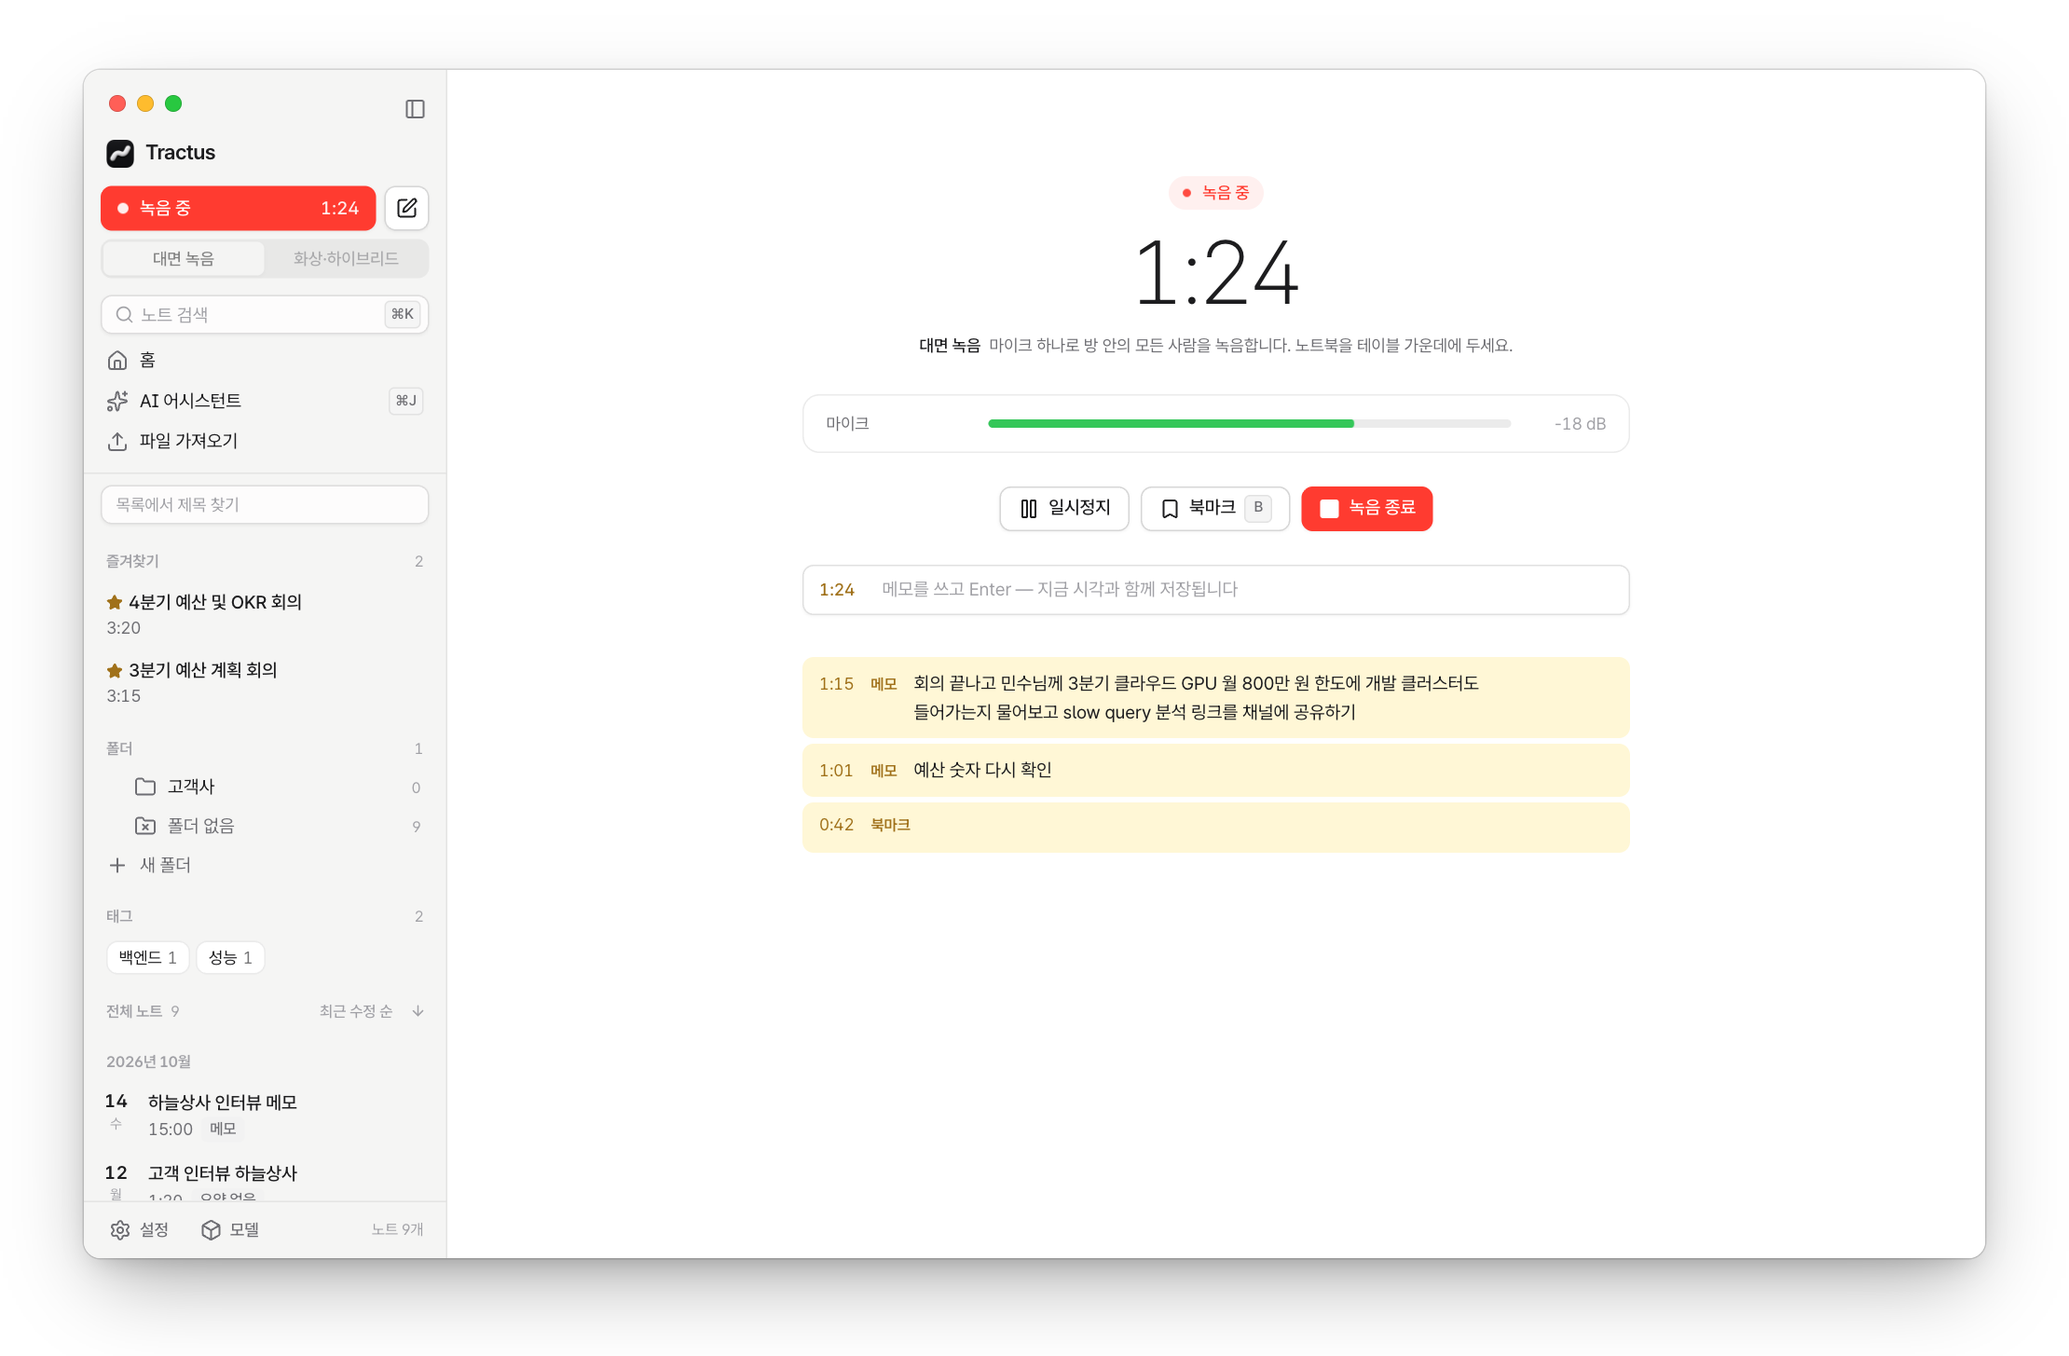
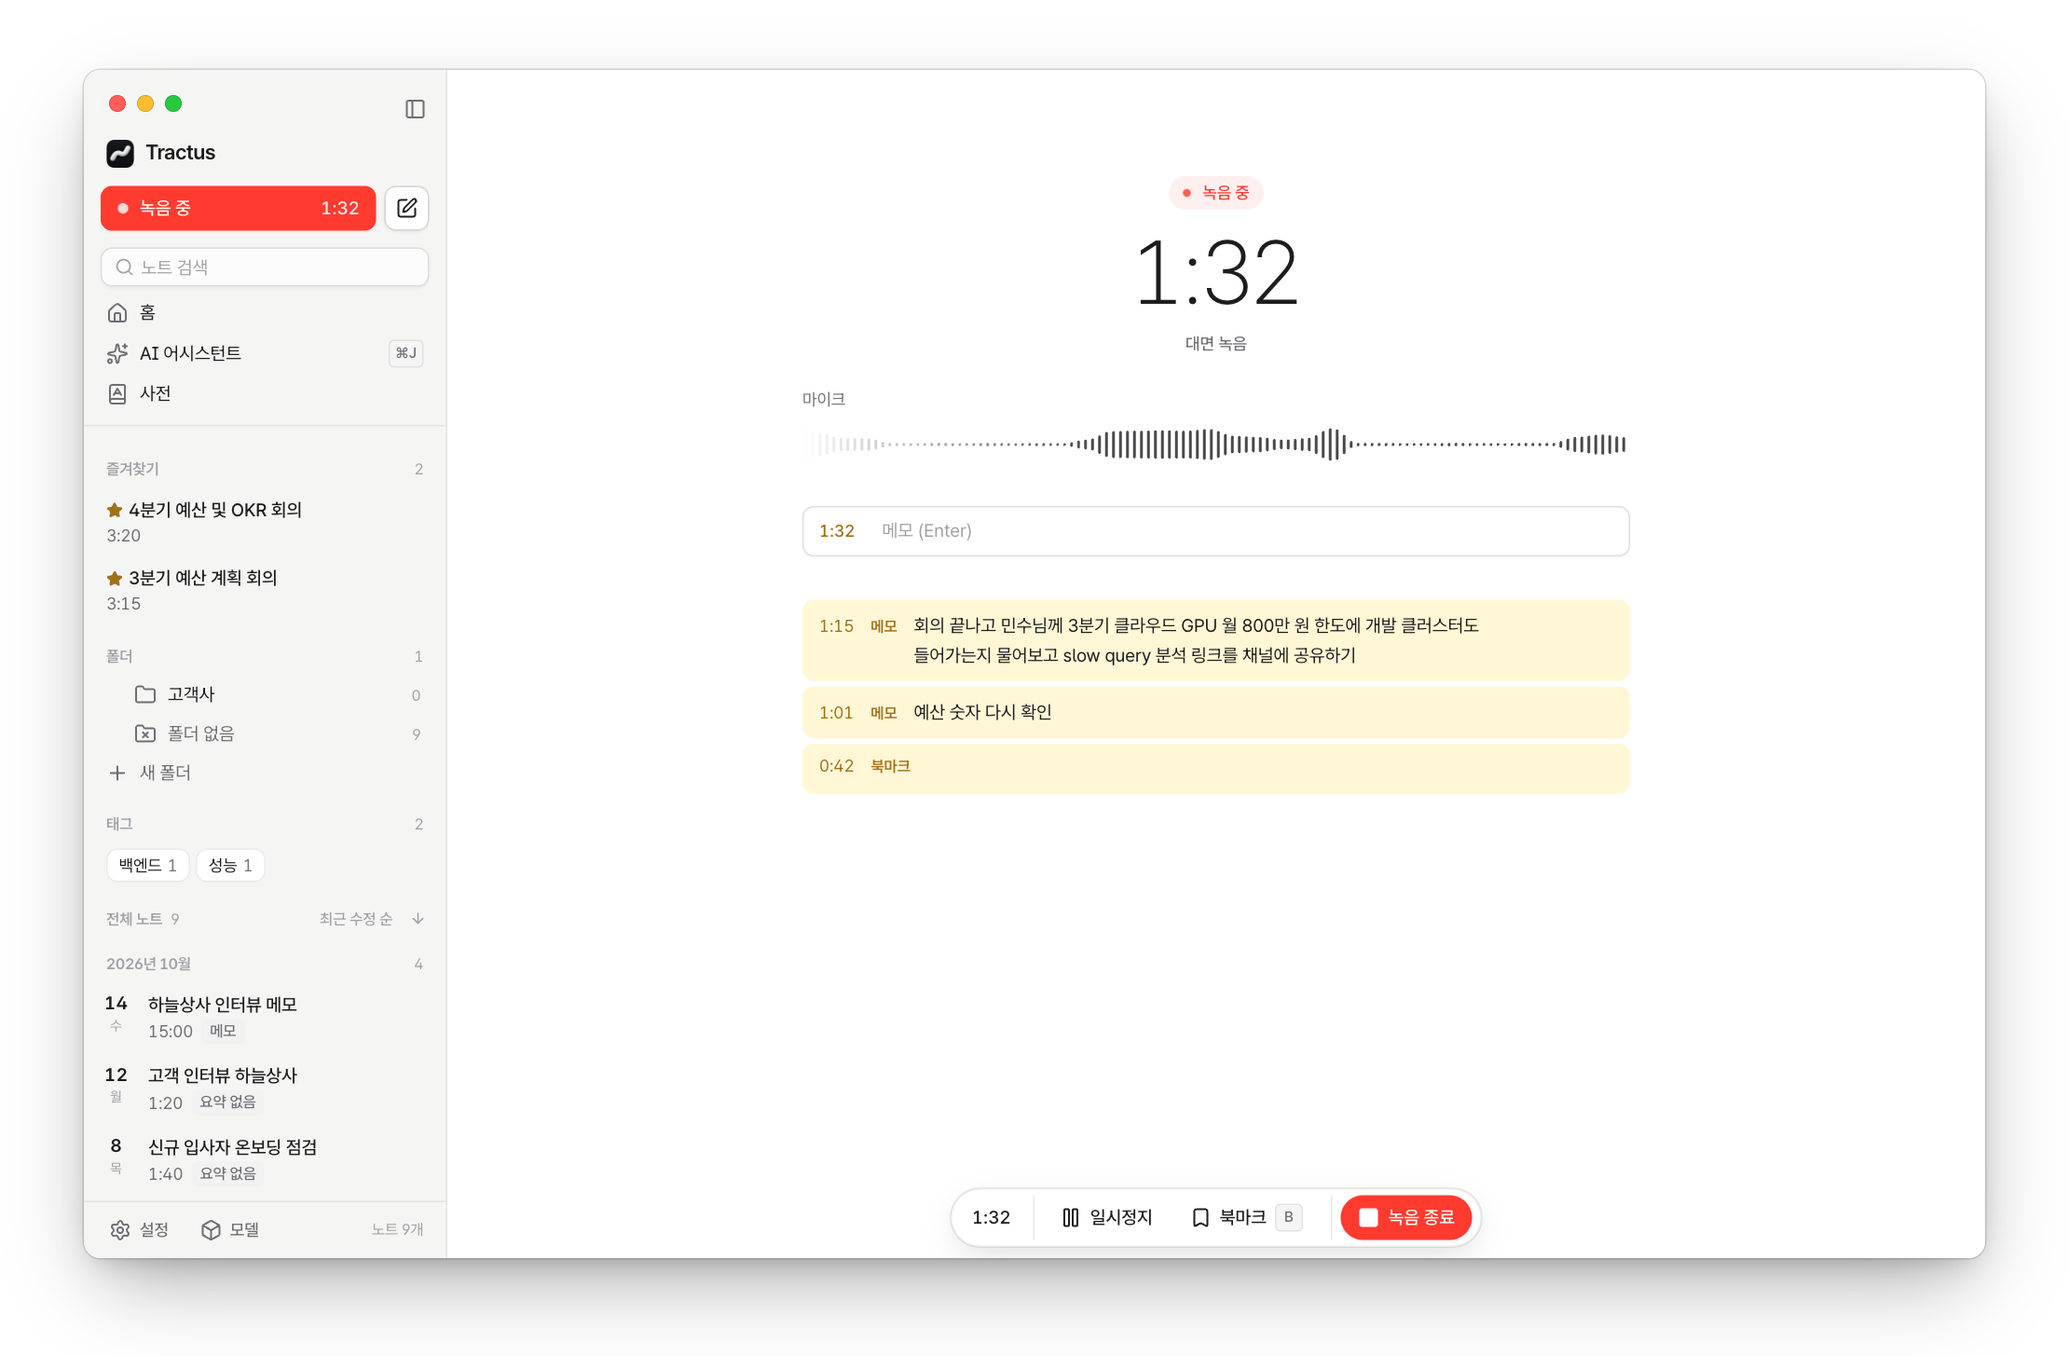
docs: 0.5.6 화면 변경에 맞춰 안내·README·스크린샷·데모 다시 맞추기 (#92)
* docs: 0.5.6 화면 변경에 맞춰 안내·README·스크린샷·데모 다시 맞추기

녹음 방식 ▾, 흐르는 파형, 홈 정리에 맞춰 사용 안내·desktop.md·README·사이트
그림 설명을 고치고 스크린샷과 데모 GIF를 다시 만든다. 영어 미리보기에 한국어
문구가 섞이던 것(언어를 정하기 전 week.ts import)도 고친다.

* docs: '녹음' 단추에 맞춰 스크린샷·데모 다시 찍기

녹음 장면은 '녹음' 단추를 역할·정확한 이름으로 찾는다.

---------

diff --git a/app/src/preview/main.tsx b/app/src/preview/main.tsx
@@ -3,7 +3,6 @@
 // 빌드(index.html)에는 들어가지 않는다. `?lang=en`이면 화면도 가짜 데이터도 영어다(README 영어 스크린샷·데모).
 import { emit } from "@tauri-apps/api/event";
 import { mockIPC, mockWindows } from "@tauri-apps/api/mocks";
-import { addDays, weekStart } from "../week";
 import dataKo from "./data/meetings.json";
 import doctorKo from "./data/doctor.json";
 import modelsKo from "./data/models.json";
@@ -312,9 +311,10 @@ const glossaryAdd = (terms: string[]) => {
 };
 
 /** 이번 주 화요일 9:30 (calendar_week의 데일리 스탠드업 s1) */
+// week.ts를 불러오지 않는다: 언어를 정하기(../main) 전에 앱 모듈을 불러오면 그 모듈의 문구 상수가 한국어로 굳는다
 const standupAt = () => {
-  const d = addDays(weekStart(new Date()), 1);
-  d.setHours(9, 30);
+  const now = new Date();
+  const d = new Date(now.getFullYear(), now.getMonth(), now.getDate() - ((now.getDay() + 6) % 7) + 1, 9, 30);
   return d.toISOString();
 };
 

diff --git a/site/index.html b/site/index.html
@@ -135,7 +135,7 @@
           <li>Light and dark mode, English and Korean UI, in-app updates</li>
         </ul>
       </div>
-      <figure><picture><source media="(prefers-color-scheme: dark)" srcset="assets/en/home-dark.png"><img src="assets/en/home-light.png" alt="Tractus home: quick actions, an upcoming calendar event and recent notes" width="2220" height="1455" loading="lazy"></picture></figure>
+      <figure><picture><source media="(prefers-color-scheme: dark)" srcset="assets/en/home-dark.png"><img src="assets/en/home-light.png" alt="Tractus home: an upcoming calendar event, this week and recent notes" width="2220" height="1455" loading="lazy"></picture></figure>
     </div>
   </section>
 

diff --git a/site/ko/index.html b/site/ko/index.html
@@ -134,7 +134,7 @@
           <li>라이트·다크 모드, 한국어·영어 화면, 앱 안 업데이트</li>
         </ul>
       </div>
-      <figure><picture><source media="(prefers-color-scheme: dark)" srcset="../assets/ko/home-dark.png"><img src="../assets/ko/home-light.png" alt="Tractus 홈: 빠른 동작과 최근 노트" width="2220" height="1455" loading="lazy"></picture></figure>
+      <figure><picture><source media="(prefers-color-scheme: dark)" srcset="../assets/ko/home-dark.png"><img src="../assets/ko/home-light.png" alt="Tractus 홈: 곧 시작하는 일정, 이번 주, 최근 노트" width="2220" height="1455" loading="lazy"></picture></figure>
     </div>
   </section>
 

diff --git a/ARCHITECTURE.md b/ARCHITECTURE.md
@@ -43,6 +43,7 @@
 | 2026-11-10 | v3.108 | **녹음 화면 소리 크기를 흐르는 파형으로(브랜치 `feat/level-wave`, 0.5.6 디자인 정리, 앱만).** 소유자 지적: 초록 가로 막대 + `-18 dB` 숫자가 단순하고 보기 좋지 않다. 고른 안은 음성 메모·ElevenLabs UI Live Waveform(MIT, shadcn 계열) 모양의 스크롤 파형이다(조사한 prompt-kit·assistant-ui·magicui·coss ui에는 오디오 레벨 부품이 없다). 부품을 들이지 않고 `LevelWave.tsx`가 tractus-rec의 `level` 이벤트(0.25초마다 dB)를 그린다. 첫 판(DOM 막대 60개를 이벤트마다 한 칸 밀기)은 소유자가 '뚝뚝 끊기고 그래픽이 별로'라 해서 canvas로 다시 했다: 매 프레임(rAF) 녹음 시계만큼 흐르고(일시정지면 멈춤), 화면을 0.3초 늦춰 두 값 사이를 smoothstep으로 이어 그린다(`waveValue`). 2px 막대 초당 14개, 왼쪽 35%는 mask로 흐려진다, 높이는 `levelFraction^1.6`(말소리와 쉼 대비, `levelHeight`). 색은 `text-foreground/80`(시스템 오디오는 옅게)을 30프레임마다 읽어 테마를 따른다. dB 숫자는 `title`로만, `role="meter"`·`aria-valuenow`는 그대로. 미리보기의 가짜 녹음이 0.25초마다 말소리 같은 레벨을 보낸다. 확인: tsc, vitest 838, 미리보기 다크. |
 | 2026-11-10 | v3.109 | **빈 상태 하나로(브랜치 `feat/empty-states`, 0.5.6 디자인 정리 5번, 앱만).** 요약 탭(점선 상자 + 아이콘 칩), 변환 전 노트(카드 + 아이콘 칩), 회의록 탭(왼쪽 정렬 긴 문장 하나), 인식된 대화 없음(제각각 여백)이 서로 다른 모양이었다. 새 부품 `components/ui/empty.tsx`(`Empty`: 제목 한 줄 + 짧은 설명 + 단추 하나까지, 상자·아이콘 칩 없이 가운데)로 맞췄다. 변환 전 노트는 진행·실패 칸이 함께 있어 부품 대신 상자와 아이콘만 걷었다. 회의록 빈 문장은 제목 `아직 회의록이 없습니다`와 설명으로 나눴다(i18n 키 둘). 부품 갤러리·DESIGN.md §4에 더했다. 목록 안의 빈 줄(사전·목소리·요약 유형)은 목록 모양이 맞아 그대로. 확인: tsc, vitest 838, 미리보기에서 요약·회의록 탭. |
 | 2026-11-10 | v3.110 | **AI 어시스턴트 다듬기(브랜치 `feat/ask-polish`, 0.5.6 디자인 정리 6번, 앱만, 기준 prompt-kit).** 입력창의 굵은 파란 초점 테두리(`ring-[3px]`)를 걷고 둥근 테두리가 진해지며 옅은 그림자가 생기게 했다(prompt-kit Prompt Input). 답이 오는 동안 끝에 깜빡이던 붉은 네모 커서를 지웠다(흐르는 글자가 이미 진행을 보인다). 기다리는 동안의 상태 글자(`준비 중…`·`관련 대화를 찾는 중…`·`답변 작성 중…`)에 빛이 지나간다(prompt-kit Text Shimmer, 기존 `animate-shine` 재사용, 움직임 줄이기면 보통 글자). 보내기 전 안내(`… 전송됩니다. 보내는 곳: {호스트}`)는 개인정보 안내라 줄이지 않았다(WORDS §6 6번 결정). 예시 질문 칩·질문 말풍선·인용 칩·`참고한 대화`는 이미 prompt-kit·assistant-ui와 같은 모양이라 그대로, 사이드바 그라데이션·반짝임도 그대로. 확인: tsc, vitest 838, 미리보기 서랍. |
+| 2026-11-10 | v3.111 | **0.5.6 문서·그림 다시 맞추기(브랜치 `docs/refresh-056`).** v3.104~v3.110 화면 변경에 맞춰 사용 안내(한·영: 녹음 방식 `▾`·흐르는 파형), docs/desktop.md 화면 표(사이드바 검색 하나·녹음 방식 `▾`·파형), README 두 벌과 소개 사이트의 그림 설명(홈 `빠른 동작` → 곧 시작하는 일정·이번 주·최근 노트, 녹음 `레벨 미터` → 흐르는 파형)을 고치고, README 스크린샷(한·영 각 12장)과 데모 GIF 두 벌을 다시 만들었다. 녹음 장면은 파형이 차도록 9초 기다린다(`readme-shots.mjs`). 다시 찍다가 찾은 것: 영어 미리보기에 `대면 녹음`·`일시정지`·`모델`이 한국어로 나왔다. 미리보기 진입 파일이 언어를 정하기(`../main`) 전에 `../week`를 정적으로 불러와 그 경로의 모듈 상수가 한국어로 굳었다. 실제 앱(`main.tsx`)은 언어를 먼저 정하므로 영향 없다. 미리보기에서 `week` import를 없앴다. |
 | 2026-11-10 | v3.112 | **사이드바 녹음 단추 `녹음 시작` → `녹음`(브랜치 `feat/record-label`, 소유자 요청).** 쉬는 중 단추 글자(`pause.recButton`)와 접힌 왼쪽 띠의 녹음 단추 이름(`RAIL_REC_LABEL.idle`)을 `녹음`으로 줄였다(영어 `Record`는 이미 있는 키). 새 노트 메뉴·⌘K·메뉴 막대·시작하기 목록의 `녹음 시작`은 동작 이름이라 그대로. |
 | 2026-10-30 | v3.78 | **한국어 파인튜닝 엔진을 8bit 변환본으로 교체(브랜치 `feat/univa-8bit`).** 0.5.2에 올린 `asr-ko-univa`가 원본 bf16(4.7GB)이었다(변환·업로드 위치를 정하지 않고 허브 원본을 그대로 등록했다). `mlx_audio.convert -q --q-bits 8 --q-group-size 64 --q-mode affine`로 변환해(표준 엔진과 같은 설정, `model.safetensors` 2,463,307,541바이트로 공식 Qwen3-ASR 1.7B 8bit와 같다) 소유자 계정에 `voyagar/Qwen3-ASR-1.7B-ko-mlx-8bit`(공개, Apache-2.0, 커밋 `8fcc32c4`, 모델 카드에 원 제작자·원본 revision·변환 명령)로 올리고 등록 목록을 바꿨다. ID `asr-ko-univa`·`level_note`는 그대로라 사용자가 고른 엔진 설정은 유지되고, 새 폴더(`qwen3-asr-1.7b-ko-8bit`)를 받을 때까지는 받아 둔 다른 엔진으로 변환한다. 0.5.2로 bf16을 받은 폴더(`qwen3-asr-1.7b-ko-bf16`)는 등록 밖이 되어 `models prune`으로 지운다. 간이 점검: 원본과 출력 차이 CER 2.5, 처리 시간 약 30% 단축(docs/design/asr-engines.md). |
 | 2026-10-30 | v3.77 | **0.5.2 릴리스 준비(브랜치 `fix/mic-config-change-crash`).** 버전 0.5.2를 다섯 매니페스트와 잠금 파일에 맞췄다. 0.5.1 이후: 한국어 파인튜닝 엔진 `asr-ko-univa` 등록과 모델 화면 변환 엔진 라디오 목록(v3.75), 장치 전환 중 녹음 프로그램 크래시 수정(v3.76, 이슈 #57). 릴리스 노트 `docs/releases/v0.5.2.md`, 로드맵 항목. |

diff --git a/docs/usage.md b/docs/usage.md
@@ -14,7 +14,7 @@
 <details open>
 <summary><b>노트 만들기</b></summary>
 
-- **녹음:** `새 노트` › `녹음 시작`. 녹음 방식은 `대면 녹음`과 `화상·하이브리드`(시스템 소리 포함) 중에서 고릅니다. 녹음 중에 메모를 쓰거나 `B`로 북마크를 남기고, `일시정지`로 잠시 멈췄다가 `계속`할 수 있습니다(멈춘 시간은 녹음에 들어가지 않습니다). `녹음 종료`를 누르면 설정 `녹음을 끝내면`에 따라 이 Mac에서 바로 텍스트로 바꾸거나, 노트(`변환 전`)로 저장만 해 두었다가 나중에 노트의 `텍스트로 변환`으로 바꿉니다(기본은 끝낼 때마다 묻습니다).
+- **녹음:** `새 노트` › `녹음 시작`. 녹음 방식은 녹음 단추 오른쪽 `▾`에서 `대면 녹음`과 `화상·하이브리드`(시스템 소리 포함) 중에 고르고, 지금 방식은 단추 안 아이콘으로 보입니다. 녹음 화면에는 최근 15초의 소리 크기가 흐르는 파형으로 보여, 말소리가 잘 들어가는지 한눈에 확인할 수 있습니다. 녹음 중에 메모를 쓰거나 `B`로 북마크를 남기고, `일시정지`로 잠시 멈췄다가 `계속`할 수 있습니다(멈춘 시간은 녹음에 들어가지 않습니다). `녹음 종료`를 누르면 설정 `녹음을 끝내면`에 따라 이 Mac에서 바로 텍스트로 바꾸거나, 노트(`변환 전`)로 저장만 해 두었다가 나중에 노트의 `텍스트로 변환`으로 바꿉니다(기본은 끝낼 때마다 묻습니다).
 - **파일 가져오기:** `새 노트` › `파일 가져오기`, 또는 창에 파일을 끌어 놓습니다. 오디오와 동영상을 받습니다. 여러 파일은 차례로 변환합니다.
 - **처음 시작하기:** 홈의 `Tractus 시작하기` 목록이 모델 받기 → 예시 노트 → 첫 녹음 → 완성된 노트 보기를 차례로 안내합니다. 예시 노트는 녹음·모델 없이 바로 열어 보는 가상 회의라 대화 내용·요약·완성된 노트가 미리 들어 있습니다(검색과 AI 어시스턴트에는 나오지 않고, 필요 없으면 지우면 됩니다). 기능을 처음 쓸 때는 옆에 짧은 안내가 한 번씩 뜹니다. `설정` › `도움말`에서 다시 보거나 끌 수 있습니다.
 - **메모 쓰기:** `새 노트` › `글쓰기`(⌘N). 쓰는 대로 저장됩니다. 메모도 같은 노트라서 요약, AI 질문, 검색, 내보내기가 됩니다. 위치는 시각 대신 `3번째 줄`로 가리킵니다.

diff --git a/docs/en/usage.md b/docs/en/usage.md
@@ -14,7 +14,7 @@ How to create, refine and find notes in the app. Terminal commands are in [CLI](
 <details open>
 <summary><b>Creating notes</b></summary>
 
-- **Record:** `New note` › `Start recording`. Choose a `Recording mode`: `In person` or `Video call or hybrid` (includes system audio). While recording, you can write memos, press `B` to add a bookmark, and `Pause` and `Resume` (paused time isn't recorded). When you click `Stop recording`, the `After recording` setting decides whether the recording is transcribed on this Mac right away or saved as a note (`Not transcribed`) that you transcribe later with `Transcribe` in the note. By default, Tractus asks each time.
+- **Record:** `New note` › `Start recording`. Pick the recording mode from the `▾` next to the record button: `In person` or `Video call or hybrid` (includes system audio); the icon on the button shows the current mode. The recording screen shows the last 15 seconds of sound as a moving waveform, so you can see at a glance that your voice is coming through. While recording, you can write memos, press `B` to add a bookmark, and `Pause` and `Resume` (paused time isn't recorded). When you click `Stop recording`, the `After recording` setting decides whether the recording is transcribed on this Mac right away or saved as a note (`Not transcribed`) that you transcribe later with `Transcribe` in the note. By default, Tractus asks each time.
 - **Import a file:** `New note` › `Import file`, or drag a file onto the window. Audio and video files are supported. Multiple files are transcribed one after another.
 - **Getting started:** The `Get started with Tractus` list on Home walks you through downloading models → the sample note → your first recording → viewing an enhanced note. The sample note is a fictional meeting you can open right away, with no recording or models needed. It already has a transcript, a summary and an enhanced note. It doesn't appear in search or the AI assistant, and you can delete it when you no longer need it. The first time you use a feature, a short tip appears next to it once. You can see the tips again or turn them off in `Settings` › `Help`.
 - **Write a memo:** `New note` › `Write` (⌘N). Memos save as you type. A memo is a note like any other, so it can be summarized, used with Ask AI, searched and exported. Positions are shown as `Line 3` instead of a time.

diff --git a/README.md b/README.md
@@ -58,9 +58,9 @@ Speech recognition, speaker detection and search run on your Mac (Apple Silicon,
     <td width="50%">
       <picture>
         <source media="(prefers-color-scheme: dark)" srcset="docs/images/en/home-dark.png">
-        <img src="docs/images/en/home-light.png" alt="Home: quick actions and recent notes">
+        <img src="docs/images/en/home-light.png" alt="Home: upcoming event, this week and recent notes">
       </picture>
-      <p align="center"><b>Home</b> — record, write, import, recent notes</p>
+      <p align="center"><b>Home</b> — upcoming event, this week, recent notes</p>
     </td>
     <td width="50%">
       <picture>
@@ -76,7 +76,7 @@ Speech recognition, speaker detection and search run on your Mac (Apple Silicon,
         <source media="(prefers-color-scheme: dark)" srcset="docs/images/en/record-dark.png">
         <img src="docs/images/en/record-light.png" alt="Recording screen">
       </picture>
-      <p align="center"><b>Record</b> — level meter, bookmarks, timestamped memos</p>
+      <p align="center"><b>Record</b> — live waveform, bookmarks, timestamped memos</p>
     </td>
     <td width="50%">
       <picture>

diff --git a/README.ko.md b/README.ko.md
@@ -57,9 +57,9 @@
     <td width="50%">
       <picture>
         <source media="(prefers-color-scheme: dark)" srcset="docs/images/home-dark.png">
-        <img src="docs/images/home-light.png" alt="홈: 빠른 동작과 최근 노트 목록">
+        <img src="docs/images/home-light.png" alt="홈: 곧 시작하는 일정, 이번 주, 최근 노트">
       </picture>
-      <p align="center"><b>홈</b> — 녹음·작성·가져오기와 최근 노트 목록</p>
+      <p align="center"><b>홈</b> — 곧 시작하는 일정, 이번 주, 최근 노트</p>
     </td>
     <td width="50%">
       <picture>
@@ -75,7 +75,7 @@
         <source media="(prefers-color-scheme: dark)" srcset="docs/images/record-dark.png">
         <img src="docs/images/record-light.png" alt="녹음 화면">
       </picture>
-      <p align="center"><b>녹음</b> — 오디오 레벨 미터, 북마크, 타임스탬프 메모</p>
+      <p align="center"><b>녹음</b> — 흐르는 파형, 북마크, 타임스탬프 메모</p>
     </td>
     <td width="50%">
       <picture>
